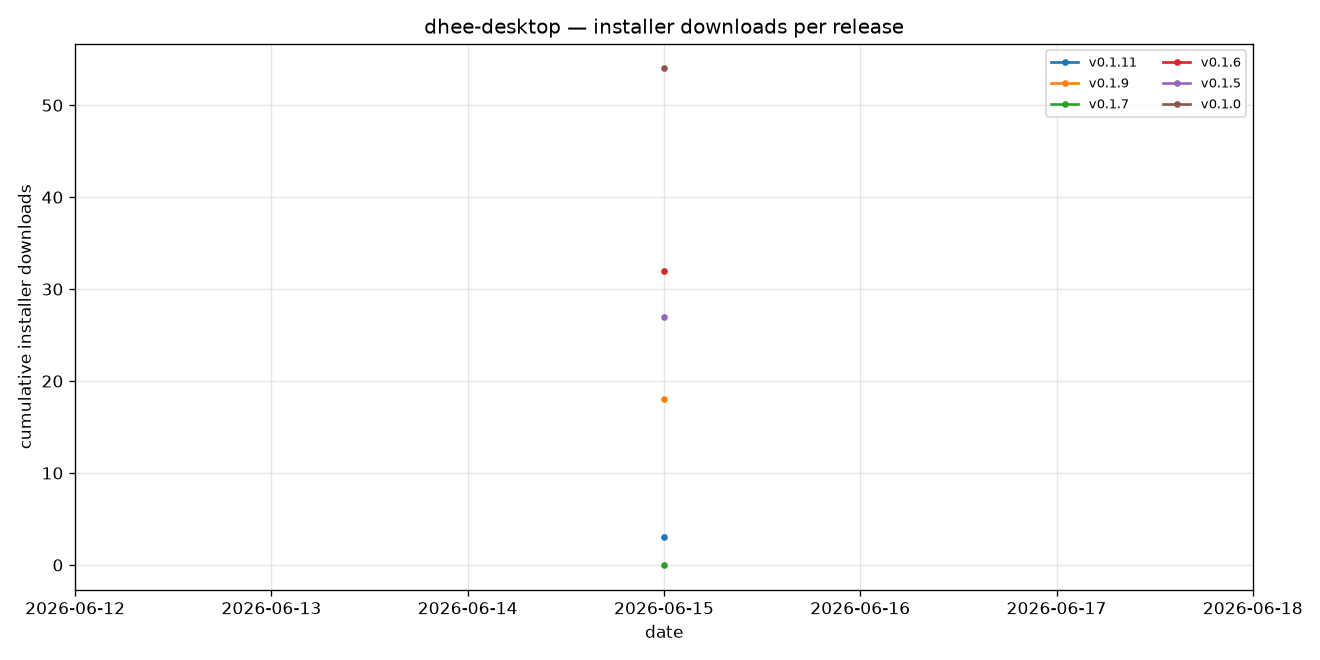
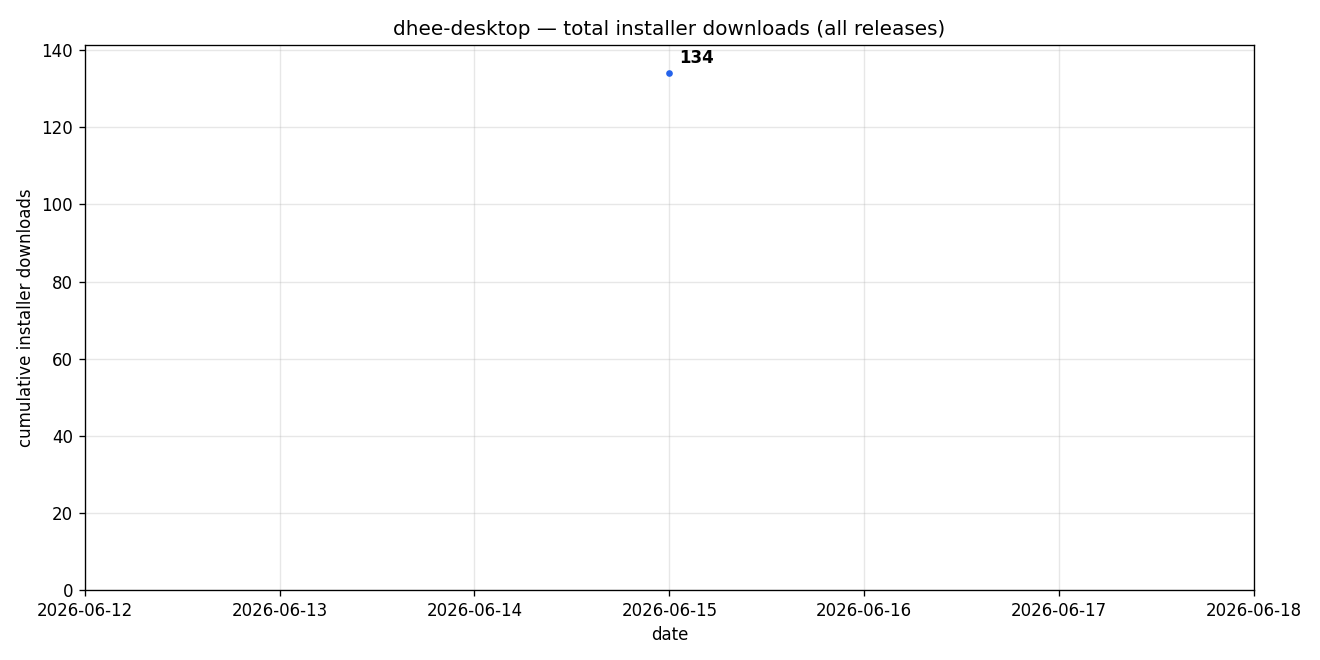
Chart cumulative total downloads instead of per-version lines
Sum installer downloads across all releases into one line (running total
labeled). The .jsonl keeps the per-release breakdown.

diff --git a/scripts/plot_downloads.py b/scripts/plot_downloads.py
@@ -2,9 +2,9 @@
 """Render data/downloads.png from the data/downloads.jsonl time series.
 
 Each line is {"date": "YYYY-MM-DD", "tag": "v0.1.x", "installers": N, "total": N}.
-Plots cumulative *installer* downloads (.dmg/.exe/.AppImage — real human installs)
-per release over time. One row per release per day is appended by the
-track-downloads workflow.
+The .jsonl keeps the per-release breakdown, but the chart shows a single
+CUMULATIVE line: total *installer* downloads (.dmg/.exe/.AppImage — real human
+installs) summed across all releases, over time.
 """
 import collections
 import json
@@ -23,38 +23,41 @@ def main():
     if not os.path.exists(DATA):
         raise SystemExit(f"{DATA} not found — nothing to plot yet.")
 
-    # last value wins per (tag, date) so manual re-runs on the same day don't duplicate points
-    series = collections.defaultdict(dict)
+    # sum installers across all releases per date; last value wins per (tag, date)
+    # so manual re-runs on the same day don't double-count.
+    per_date_tag = collections.defaultdict(dict)  # date -> {tag: installers}
     for line in open(DATA):
         line = line.strip()
         if not line:
             continue
         r = json.loads(line)
-        series[r["tag"]][r["date"]] = r.get("installers", r.get("total", 0))
+        per_date_tag[r["date"]][r["tag"]] = r.get("installers", r.get("total", 0))
+
+    dates = sorted(per_date_tag)
+    xs = [datetime.fromisoformat(d) for d in dates]
+    ys = [sum(per_date_tag[d].values()) for d in dates]
 
     plt.figure(figsize=(11, 5.5))
-    all_dates = []
-    # newest release last in legend; sort tags naturally-ish by their date span
-    for tag in sorted(series, key=lambda t: min(series[t])):
-        pts = sorted(series[tag].items())
-        xs = [datetime.fromisoformat(d) for d, _ in pts]
-        ys = [n for _, n in pts]
-        all_dates += xs
-        plt.plot(xs, ys, marker=".", linewidth=1.6, label=tag)
+    plt.plot(xs, ys, marker=".", linewidth=1.8, color="#2563eb",
+             label="all releases")
+    if ys:
+        plt.annotate(f"{ys[-1]:,}", (xs[-1], ys[-1]),
+                     textcoords="offset points", xytext=(6, 6),
+                     fontsize=10, fontweight="bold")
 
     # single-day data has no range to autoscale — pad the x-axis so it reads sensibly
-    lo, hi = min(all_dates), max(all_dates)
+    lo, hi = min(xs), max(xs)
     pad = timedelta(days=max(3, (hi - lo).days * 0.05))
     plt.xlim(lo - pad, hi + pad)
+    plt.ylim(bottom=0)
 
-    plt.title("dhee-desktop — installer downloads per release")
+    plt.title("dhee-desktop — total installer downloads (all releases)")
     plt.ylabel("cumulative installer downloads")
     plt.xlabel("date")
     plt.grid(alpha=0.3)
-    plt.legend(fontsize=8, ncol=2)
     plt.tight_layout()
     plt.savefig(OUT, dpi=120)
-    print(f"Wrote {OUT}")
+    print(f"Wrote {OUT} (latest total: {ys[-1] if ys else 0})")
 
 
 if __name__ == "__main__":